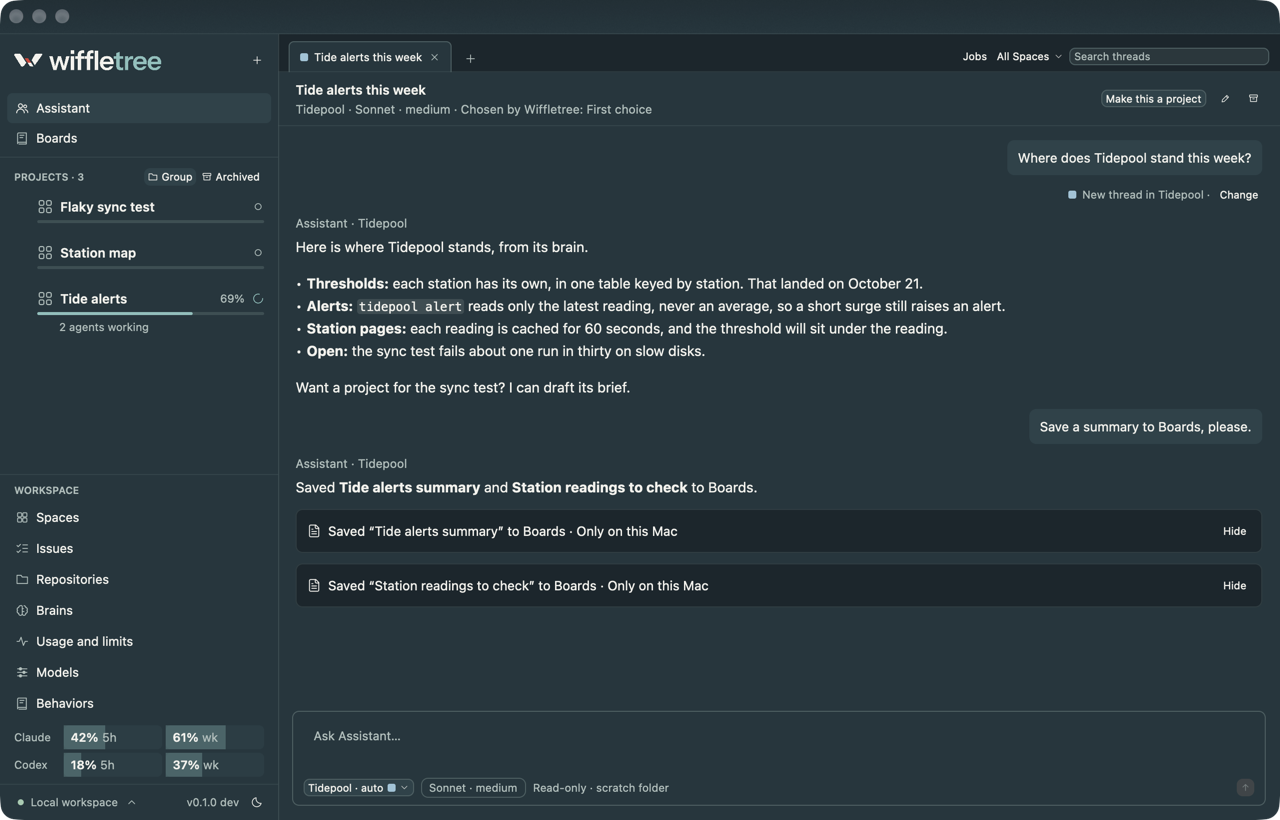
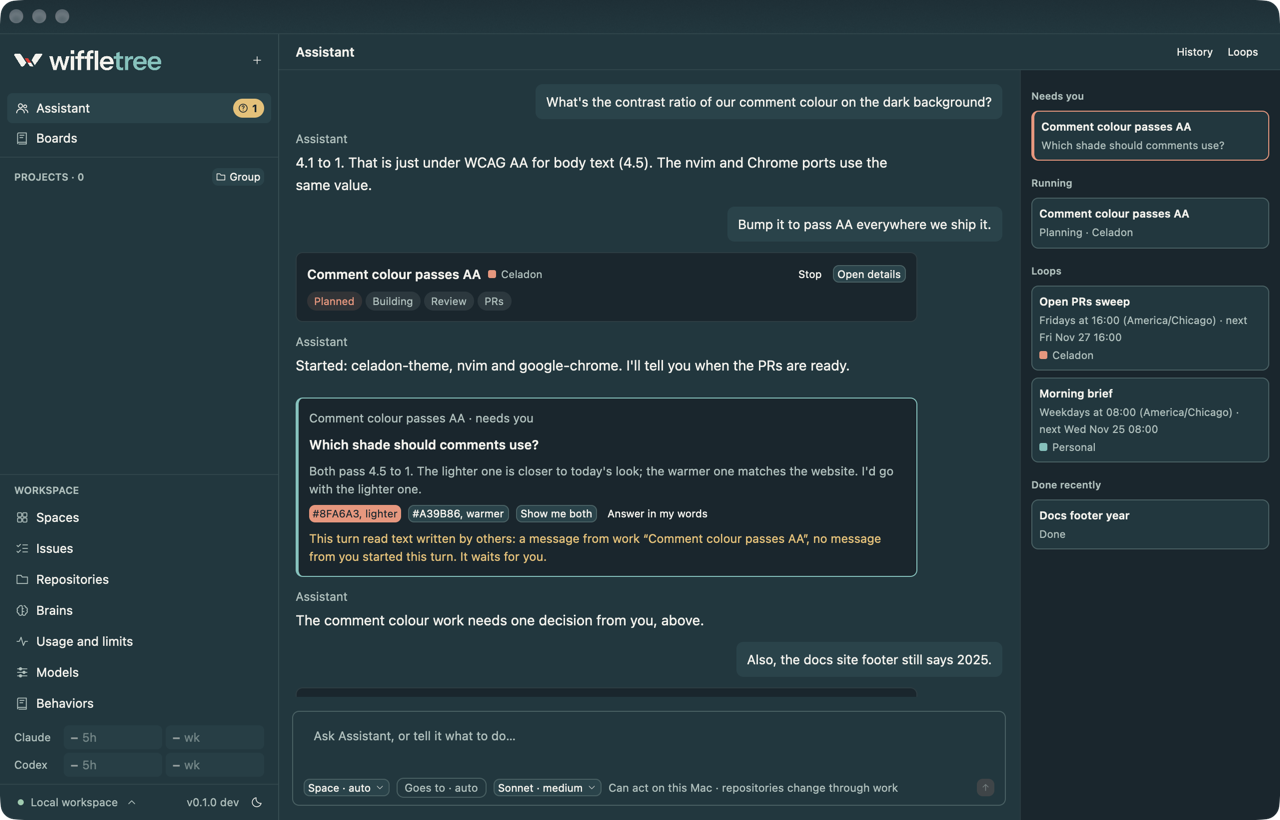
Refresh the README's Assistant screenshot from the one conversation
Captured from this branch's build with an isolated data folder and a scripted
stand-in provider: a contrast answer, work started in Celadon, a decision
from that work, two loops and the rail. No real accounts.

diff --git a/README.md b/README.md
@@ -68,11 +68,11 @@ The full explanation of everything below is in **[docs/FEATURES.md](docs/FEATURE
   </tr>
   <tr>
     <td><img src="docs/images/issues.png" alt="The Issues page as a board, with demo issues in Triage, Backlog, Todo and In progress columns"></td>
-    <td><img src="docs/images/assistant.png" alt="The Assistant as an earlier release showed it, answering a status question in the Tidepool Space and saving two outputs to Boards"></td>
+    <td><img src="docs/images/assistant.png" alt="The Assistant's one conversation: it answers a contrast question, starts work in the Celadon Space with a work card, brings up a decision from that work, and the rail lists Needs you, Running, Loops and Done recently"></td>
   </tr>
   <tr>
     <td align="center"><sub>Issues are plain files in your repository.</sub></td>
-    <td align="center"><sub>The Assistant answers and saves outputs to Boards (earlier release shown).</sub></td>
+    <td align="center"><sub>The Assistant answers, runs work for you and asks only what needs you.</sub></td>
   </tr>
   <tr>
     <td><img src="docs/images/models.png" alt="The Models page's Who runs what table, with a first choice, a next choice, a small-work line and a Right now column for each job"></td>
